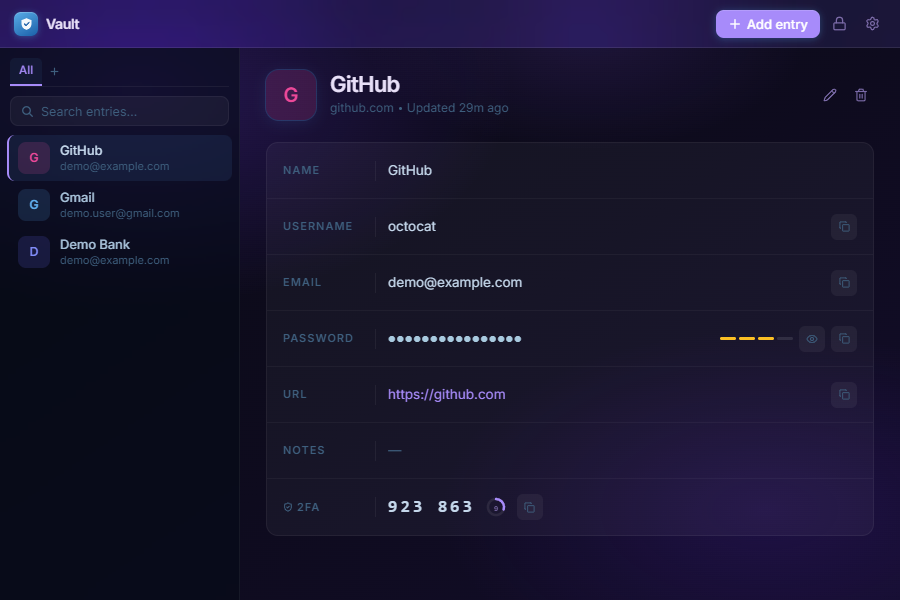
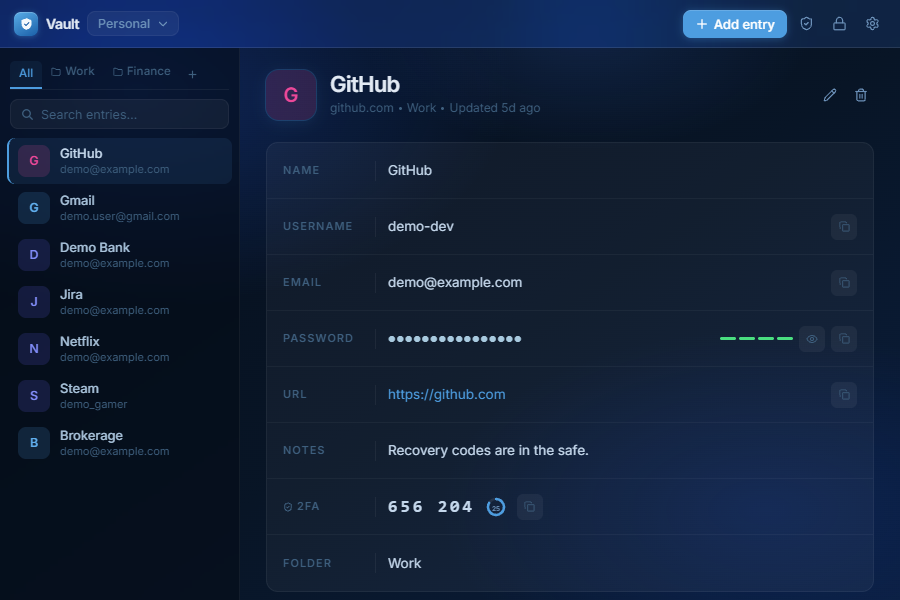
docs(readme): cover every feature, WebDAV sync and mobile, with new screenshots

diff --git a/README.md b/README.md
@@ -1,8 +1,8 @@
 # Vault
 
-A local, end-to-end encrypted password manager built with Tauri 2, React, and Rust.
+A local, end-to-end encrypted password manager for desktop and mobile, built with Tauri 2, React, and Rust.
 
-![Platform](https://img.shields.io/badge/platform-Windows-blue)
+![Platform](https://img.shields.io/badge/platform-Windows%20%7C%20macOS%20%7C%20Linux%20%7C%20iOS%20%7C%20Android-blue)
 ![Version](https://img.shields.io/badge/version-1.0.0-green)
 ![License](https://img.shields.io/badge/license-MIT-blue)
 
@@ -10,40 +10,97 @@ A local, end-to-end encrypted password manager built with Tauri 2, React, and Ru
 
 ## Features
 
-- **AES-256-GCM encryption** — every vault is encrypted at rest with an authenticated cipher; nothing is ever stored in plaintext
-- **Argon2id key derivation** — master password is stretched with Argon2id before use, making brute-force attacks expensive
-- **Secure key wiping** — the decryption key is zeroed from memory on lock via the `zeroize` crate
-- **TOTP / 2FA codes** — store a base32 TOTP secret per entry; live 6-digit codes with a countdown timer are shown in the detail view and inline in the overlay search list
-- **System tray** — lives in the background; use the tray menu to open, lock, or quit
-- **Quick-access overlay** — press a configurable global shortcut (default `Ctrl+Shift+P`) to open a floating search window; select an entry to view all fields and copy with keyboard shortcuts
-- **Configurable overlay shortcut** — change the global keybind in Settings → Shortcuts; persisted across restarts
-- **Auto-lock** — configurable inactivity timeout (1 min to 1 hour, or never)
-- **Clipboard auto-clear** — copied secrets are wiped from the clipboard after 30 seconds via a system-level clear (no blank history entry added)
-- **Multiple vaults** — people sharing a device each keep their own vault with its own master password and sync folder; switch from the lock screen, the title bar or Settings, and switching always locks the open vault first
-- **Folders** — organise entries into folders with rename and delete support
-- **Themes** — multiple colour themes switchable from Settings
-- **Autostart** — optional launch on system boot
-- **Import / Export** — encrypted vault backups
-- **Sync folder (optional)** — keep the encrypted vault in a OneDrive, Dropbox, iCloud Drive or Syncthing folder; changes from each device are merged entry by entry, and conflict copies are folded back in automatically
-- **Fully local** — no Vault servers and no telemetry; sync only ever moves the encrypted file, through a folder you choose
+### Security
+- **AES-256-GCM encryption**: every vault is encrypted at rest with an authenticated cipher, and nothing is ever stored in plaintext
+- **Argon2id key derivation**: the master password is stretched with Argon2id before use, which makes brute-force attacks expensive
+- **Secure key wiping**: the decryption key is zeroed from memory on lock using the `zeroize` crate
+- **Auto-lock**: configurable inactivity timeout, from 1 minute to 1 hour, or never
+- **Lock on screen lock or sleep**: the vault locks when the machine goes to sleep, and on Windows also when the screen locks (optional)
+- **Lock in the background**: on iOS and Android, the vault locks as soon as the app leaves the foreground
+- **Windows Hello quick unlock**: unlock with a fingerprint, face or PIN after the first unlock. Nothing is written to disk, so a cold start still needs the master password
+- **Clipboard auto-clear**: copied secrets are wiped from the clipboard after 30 seconds by a system-level clear, which adds no blank history entry
+- **Password health**: flags reused passwords, weak passwords, and passwords that haven't changed in over a year
+- **Change master password**: re-encrypts the vault under a new password
+
+### Entries
+- **TOTP / 2FA codes**: store a base32 secret or paste an `otpauth://` URI. Live 6-digit codes with a countdown are shown in the detail view and in the overlay
+- **Password generator**: random passwords, or memorable passphrases built from the EFF short wordlist, with a choice of separator, capitals and digits
+- **Password history**: the last 10 passwords of each entry are kept, and any of them can be shown, copied or restored
+- **Folders**: organise entries into folders, with rename and delete
+- **Undo delete**: deleted entries can be restored from a toast for a few seconds
+- **Email suggestions**: the email field suggests addresses you have already used
+
+### Vaults and sync
+- **Multiple vaults**: people sharing a device each keep their own vault, with its own master password and sync settings. Switch from the lock screen, the title bar or Settings; switching always locks the open vault first
+- **Sync between devices (optional)**: through a sync folder or a WebDAV server. Changes from each device are merged entry by entry, so edits made offline on two devices both survive. See [Syncing between devices](#syncing-between-devices)
+- **Import / Export**: encrypted vault backups, and CSV import from Chrome, Edge, Firefox, Bitwarden, LastPass and other password managers, including on first run before a vault exists
+- **Fully local**: no Vault servers, accounts or telemetry. Sync only ever moves the encrypted vault file, through a folder or server you choose
+
+### Desktop
+- **Quick-access overlay**: press a global shortcut (default `Ctrl+Shift+P`) to open a floating search window, then copy fields with single keys
+- **Configurable overlay shortcut**: change it in Settings → Shortcuts
+- **System tray**: lives in the background; use the tray menu to open, lock, or quit
+- **Autostart**: optional launch on system boot
+- **Themes**: Ocean, Midnight, Forest, Crimson and Slate
+
+### Mobile
+- **Native-style phone layout** with tab navigation, tap-to-copy fields, and Android back-button support
+- **iOS Password AutoFill**: Vault offers your logins in Safari and in other apps' sign-in fields (optional)
 
 ---
 
 ## Screenshots
 
 ### Lock Screen
-![Locked](images/lock-screen.png)
+![Lock screen with vault switcher](images/lock-screen.png)
 
 ### Main Window
 ![Entry list](images/main-window.png)
 ![Entry detail with 2FA](images/entry-detail.png)
 
+### Password Generator
+![Passphrase generator](images/password-generator.png)
+
+### Password Health
+![Password health report](images/password-health.png)
+
 ### Settings
 ![Settings](images/settings.png)
+![Sync and vault settings](images/settings-sync.png)
 
 ### Quick-Access Overlay
 ![Overlay search results](images/overlay-search.png)
 ![Overlay entry detail](images/overlay-detail.png)
+
+### Mobile
+<p>
+  <img src="images/mobile-list.png" alt="Phone entry list" width="300">
+  <img src="images/mobile-detail.png" alt="Phone entry detail" width="300">
+</p>
+
+---
+
+## Syncing between devices
+
+Sync is optional and set per vault in Settings → Sync. Either way, only the encrypted vault file leaves the device. The master password and the decryption key never do.
+
+**Sync folder (desktop only).** Keep the vault in a folder that OneDrive, Dropbox, iCloud Drive or Syncthing already keeps in step across your computers. Vault merges other devices' changes as they arrive and folds conflict copies back in automatically.
+
+**WebDAV server (every platform, including iOS and Android).** Vault keeps an encrypted copy of the vault on a WebDAV server and merges it with each device's own copy. Any WebDAV provider works, for example Koofr, Nextcloud, or a NAS:
+
+| Field | Example (Koofr) |
+|---|---|
+| Server folder | `https://app.koofr.net/dav/Koofr/Vault` |
+| Username | your account email |
+| Password | an app password created in the provider's account settings |
+
+- Connect the first device from Settings → Sync. On each other device, choose **Open a vault from a WebDAV server…** on the lock screen, then enter the same master password.
+- A save is uploaded about a second later, and each device checks for changes every 30 seconds while the vault is unlocked, and again on every unlock. Phones sync only while the app is open.
+- The vault works offline and catches up the next time the server is reachable.
+- The server must use HTTPS (plain HTTP is allowed only for `localhost`). The WebDAV password is stored on the device, encrypted under the vault key.
+- If the master password is changed on one device, the others ask for the new one the next time they sync.
+
+Merging is handled by [folder-crdt](https://github.com/Wilgoy23/folder-crdt): every field carries a hybrid-clock timestamp, so concurrent edits to different fields both survive, and the newest edit wins when two devices change the same field.
 
 ---
 
@@ -51,15 +108,17 @@ A local, end-to-end encrypted password manager built with Tauri 2, React, and Ru
 
 | Layer | Implementation |
 |---|---|
-| Key derivation | Argon2id — 64 MB memory, 3 iterations |
+| Key derivation | Argon2id, 64 MiB memory, 3 iterations |
 | Encryption | AES-256-GCM (authenticated) |
 | Salt | 32 random bytes, generated once per vault |
 | Nonce | 12 random bytes, unique per save |
-| Storage | `Base64(nonce ‖ ciphertext)` written to disk |
-| Memory | Master key zeroed with `zeroize` on lock |
-| Clipboard | Cleared after 30 s via `arboard::Clipboard::clear()` |
+| Storage | A versioned header (format, salt, Argon2 parameters) followed by `nonce ‖ ciphertext` |
+| Memory | Master key zeroed with `zeroize` on lock; key derivation and writes run off the UI thread |
+| Clipboard | Cleared after 30 s; only Vault's own copy is cleared |
+| Quick unlock | Windows Hello wraps the key in process memory only; nothing is stored on disk |
+| Sync | Only the encrypted file is transferred; WebDAV requires HTTPS, and its credentials are sealed under the vault key |
 
-The vault file cannot be decrypted without the master password. There is no recovery mechanism — if you forget your master password, the data is unrecoverable.
+The vault file cannot be decrypted without the master password. There is no recovery mechanism: if you forget your master password, the data is unrecoverable.
 
 ---
 
@@ -68,16 +127,19 @@ The vault file cannot be decrypted without the master password. There is no reco
 **Frontend**
 - React 19 + TypeScript 5.8
 - Vite 7
-- Glassmorphism UI — no external component library
+- Glassmorphism UI, with no external component library
+- Vitest for unit tests
 
 **Backend (Rust)**
-- Tauri 2
-- `aes-gcm` — encryption
-- `argon2` — key derivation
-- `arboard` — system clipboard access
-- `zeroize` — secure memory wiping
-- `uuid` — entry identifiers
-- `serde_json` — vault serialization
+- Tauri 2 (desktop, iOS and Android)
+- `aes-gcm`: encryption
+- `argon2`: key derivation
+- `zeroize`: secure memory wiping
+- [`folder-crdt`](https://github.com/Wilgoy23/folder-crdt): vault merging, sync folders, and the WebDAV client (`ureq` + `rustls`)
+- `arboard`: desktop clipboard access
+- `windows`: Windows Hello and screen-lock detection
+- `csv`: importing exports from other password managers
+- `uuid`, `serde_json`: entry identifiers and serialization
 
 ---
 
@@ -86,9 +148,8 @@ The vault file cannot be decrypted without the master password. There is no reco
 | Field | Required |
 |---|---|
 | Name | Yes |
-| Email | Yes |
+| Email or username | At least one |
 | Password | Yes |
-| Username | No |
 | URL | No |
 | Notes | No |
 | 2FA secret | No |
@@ -98,12 +159,15 @@ The vault file cannot be decrypted without the master password. There is no reco
 
 ## Installation
 
-Download the latest installer from the [Releases](../../releases) page.
+Download the latest build from the [Releases](../../releases) page.
 
-| File | Format |
+| Platform | Files |
 |---|---|
-| `Vault_1.0.0_x64-setup.exe` | NSIS installer (recommended) |
-| `Vault_1.0.0_x64_en-US.msi` | MSI |
+| Windows | `.exe` (NSIS installer, recommended) or `.msi` |
+| macOS | `.dmg` |
+| Linux | `.AppImage`, `.deb` or `.rpm` |
+| iOS | `_iOS_unsigned.ipa`, to sideload with AltStore, Sideloadly or similar |
+| Android | Build from source; see [ANDROID_BUILD.md](ANDROID_BUILD.md) |
 
 ---
 
@@ -112,7 +176,7 @@ Download the latest installer from the [Releases](../../releases) page.
 **Prerequisites**
 - [Node.js](https://nodejs.org) 18+
 - [Rust](https://rustup.rs) stable
-- [Tauri prerequisites](https://tauri.app/start/prerequisites/) — WebView2, MSVC build tools
+- [Tauri prerequisites](https://tauri.app/start/prerequisites/) for your platform (on Windows: WebView2 and the MSVC build tools)
 
 ```bash
 git clone https://github.com/Wilgoy23/vault.git
@@ -129,6 +193,17 @@ For development hot-reload:
 npm run tauri dev
 ```
 
+Run the tests:
+
+```bash
+npm test                              # frontend
+cargo test --manifest-path src-tauri/Cargo.toml   # backend
+```
+
+**Mobile**
+- Android: see [ANDROID_BUILD.md](ANDROID_BUILD.md). Works on Windows, with `npm run tauri android dev` for a connected phone.
+- iOS: see [IOS_BUILD.md](IOS_BUILD.md). Needs a Mac, or the GitHub Actions workflow that builds the unsigned `.ipa`.
+
 ---
 
 ## Keyboard Shortcuts
@@ -144,7 +219,7 @@ npm run tauri dev
 | `E` | Edit selected entry |
 | `Escape` | Deselect entry |
 
-### Overlay — Search List
+### Overlay: Search List
 
 | Shortcut | Action |
 |---|---|
@@ -152,7 +227,7 @@ npm run tauri dev
 | `Enter` | Open entry detail |
 | `Escape` | Close overlay |
 
-### Overlay — Entry Detail
+### Overlay: Entry Detail
 
 | Shortcut | Action |
 |---|---|
